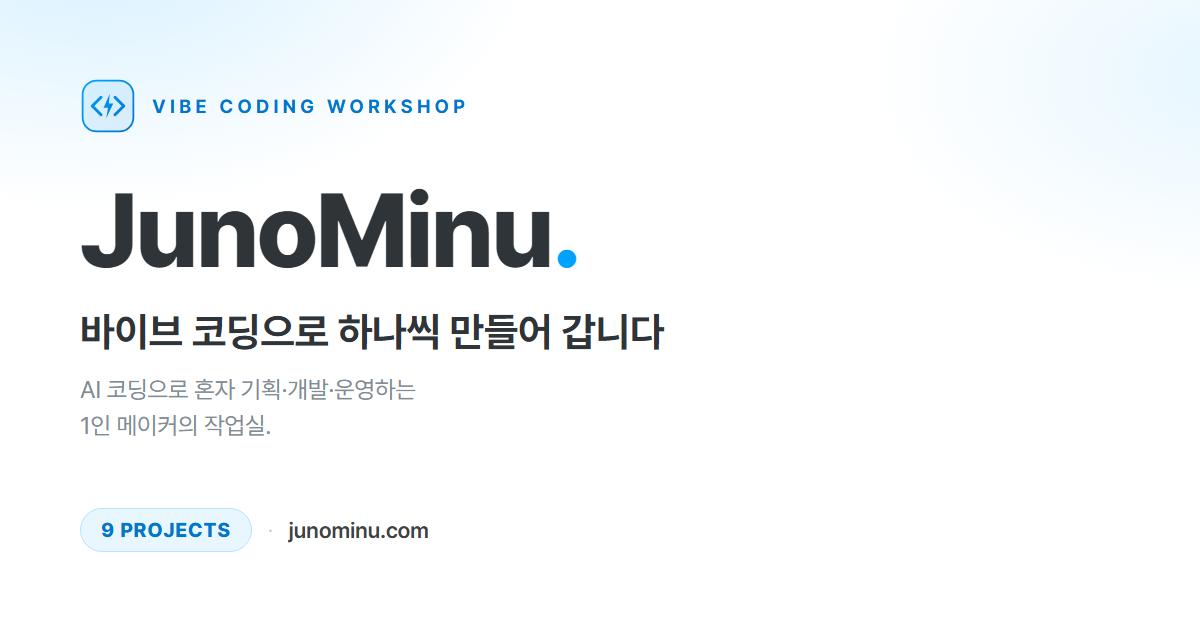
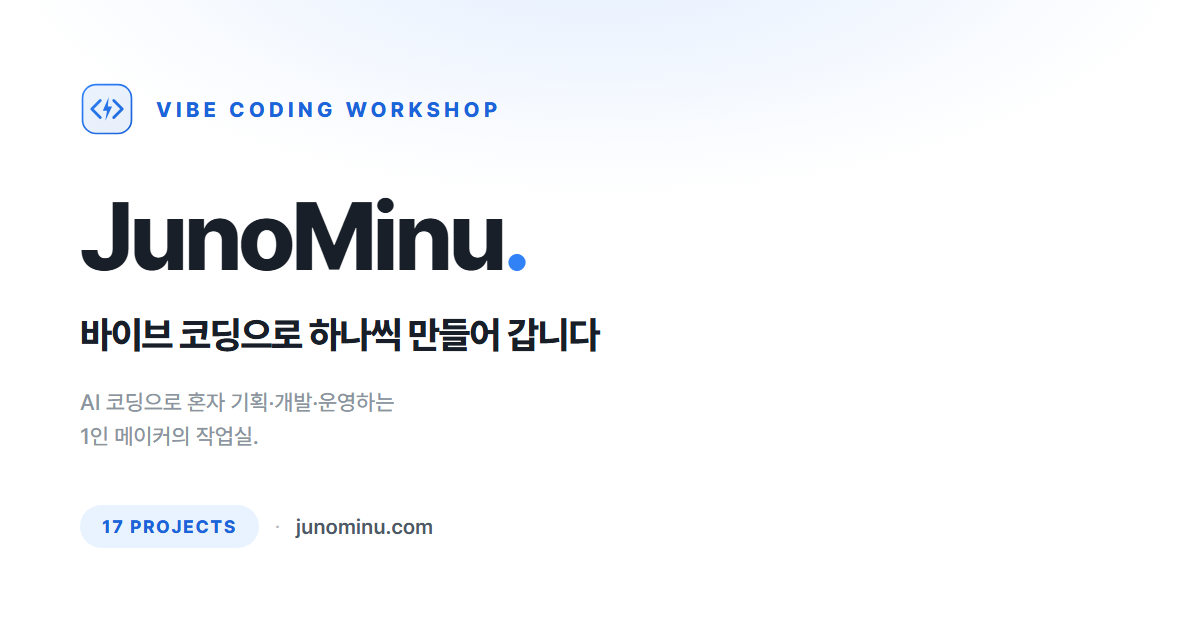
feat: 좌우 여백을 페이지 전체로 통일 + 프로젝트 8개 추가 (9 → 17)
상단 바·히어로만 배경이 화면 끝까지 깔려 있어서 맨 위만 폭이 달랐다.
(실측 1571px: topbar/herowrap = 0→1571, 나머지 = 265→1305)

.topbar / .herowrap 을 .sband 와 같은 2단 구조로 바꿨다.
바깥이 max-width + 좌우 패딩, 안쪽(.topbar__inner / .herowrap > .page)이
흰 카드(테두리·radius·점격자·파란 광). 점 격자 ::before 도 안쪽으로 옮겼다 —
바깥에 두면 좌우 여백까지 점이 번진다.

이제 맨 위부터 풋터까지 전부 265→1305, 가로 스크롤 없음.

프로젝트 추가: 상세페이지 메이커 · 센스트랙 · 아이다이어리 ·
브랜드커넥트 도우미 · 서이추 도우미 · 무궁화 꽃이 피었습니다 ·
슬라이딩 퍼즐 · 오델로. 카테고리 5개가 전부 채워졌다.
8개 모두 detail 이 없어 카드만 나온다(프리렌더는 그대로 9개).

og.png 를 17 PROJECTS 로 재생성.

diff --git a/src/App.css b/src/App.css
@@ -7,7 +7,8 @@
 
 /* 홈은 히어로 / 풀블리드 / 나머지 세 덩어리로 쪼개져 있다(풀블리드 스크롤바 문제 회피).
    위 조각은 아래 패딩을, 아래 조각은 위 패딩을 뺀다 — 합치면 원래 한 덩어리와 같다. */
-.page--top  { padding-top: clamp(44px, 6vw, 76px); padding-bottom: 0; }
+/* 히어로는 이제 카드라(2026-08-05) 아래 여백도 카드가 갖는다 — .hero 의 margin 은 0. */
+.page--top  { padding-top: clamp(44px, 6vw, 76px); padding-bottom: clamp(36px, 5vw, 56px); }
 .page--rest {
   /* 섹션이 각자 카드(.sband)라 좌우 패딩은 카드가 갖는다. 여기선 폭 제한도 푼다. */
   max-width: none;
@@ -28,16 +29,22 @@
 /* ── 상단 바 ───────────────────────────
    로고와 내비를 히어로 밖으로 뺐다(2026-08-03 2차). 히어로 안에 쌓아두니
    PC 폭에서 요소가 세로로 7단이 되어 양옆이 텅 비고 어색했다.
-   내비가 위로 올라가면 히어로는 배지·이름·한 줄·CTA 네 단으로 끝난다. */
+   내비가 위로 올라가면 히어로는 배지·이름·한 줄·CTA 네 단으로 끝난다.
+
+   🔴 2026-08-05: 상단 바도 카드다. 예전엔 배경이 화면 끝까지 깔렸는데, 아래 섹션은
+   전부 좌우 여백(캔버스)을 두고 있어서 맨 위만 폭이 다르게 보였다(사용자 지적).
+   바깥(.topbar)이 폭·좌우 여백을 잡고, 안쪽(.topbar__inner)이 흰 카드다 — .sband 와 같은 구조. */
 .topbar {
-  border-bottom: 1px solid var(--border);
-  background: var(--surface);
+  max-width: var(--maxw);
+  margin: 14px auto 10px;
+  padding: 0 clamp(20px, 5vw, 40px);
 }
 
 .topbar__inner {
-  max-width: var(--maxw);
-  margin: 0 auto;
-  padding: 14px clamp(20px, 5vw, 40px);
+  background: var(--surface);
+  border: 1px solid var(--border);
+  border-radius: var(--radius);
+  padding: 12px clamp(18px, 2.8vw, 30px);
   display: flex;
   align-items: center;
   justify-content: space-between;
@@ -93,7 +100,7 @@
    CTA 하나 · 바로 아래 작업물 스트립. 950개 SaaS 랜딩이 예외 없이 하는 단 하나가
    "히어로 바로 아래 제품 화면"인데 이 사이트엔 첫 화면에 이미지가 없었다. */
 .hero {
-  margin-bottom: 40px;
+  margin-bottom: 0;   /* 아래 여백은 .page--top 의 padding-bottom 이 갖는다 */
   text-align: center;
 }
 
@@ -179,18 +186,30 @@
 
 /* ── 히어로 배경 층 ─────────────────────
    순백 위에 글자만 있으면 밋밋하다는 지적(2026-08-03). 은은한 점 격자 + 파란 광.
-   .page 의 형제라 화면 끝까지 깔린다(음수 마진·50vw 를 안 써서 가로 스크롤이 안 생긴다). */
+
+   🔴 2026-08-05: 히어로도 카드다. 예전엔 이 층이 화면 끝까지 깔렸는데(전면 흰색),
+      아래 섹션은 전부 좌우 여백을 두고 있어서 **맨 위만 좌우가 꽉 찬** 상태였다.
+      바깥(.herowrap)이 폭·좌우 여백만 잡고, 흰 면·점 격자·파란 광은 안쪽 카드가 갖는다. */
 .herowrap {
+  max-width: var(--maxw);
+  margin: 0 auto 18px;
+  padding: 0 clamp(20px, 5vw, 40px);
+}
+
+.herowrap > .page {
   position: relative;
-  overflow: hidden;
-  border-bottom: 1px solid var(--border);
+  z-index: 1;
+  max-width: none;
+  overflow: hidden;              /* 점 격자를 카드 라운드 안으로 자른다 */
+  border: 1px solid var(--border);
+  border-radius: var(--radius);
   background:
     radial-gradient(70% 55% at 50% -10%, rgba(49, 130, 246, 0.10), transparent 70%),
-    var(--surface);   /* 히어로는 카드가 아니라 전면이라 흰색 */
+    var(--surface);
 }
 
 /* 점 격자 — 작업실 바닥 같은 질감. 가장자리로 갈수록 사라진다. */
-.herowrap::before {
+.herowrap > .page::before {
   content: "";
   position: absolute;
   inset: 0;
@@ -199,11 +218,6 @@
   -webkit-mask-image: radial-gradient(75% 65% at 50% 25%, #000, transparent 78%);
   mask-image: radial-gradient(75% 65% at 50% 25%, #000, transparent 78%);
   pointer-events: none;
-}
-
-.herowrap > .page {
-  position: relative;
-  z-index: 1;
 }
 
 /* ── 히어로 무대 (움직이는 창) ────────────

diff --git a/src/projects.js b/src/projects.js
@@ -739,14 +739,76 @@ export const PROJECTS = [
       ],
     },
   },
-  // 예시) 구상 단계 카드 — url 없이 추가:
-  // {
-  //   name: "다음 프로젝트",
-  //   emoji: "✨",
-  //   description: "여기에 한 줄 설명.",
-  //   status: "idea",
-  //   tags: ["아이디어"],
-  // },
+  // ── 2026-08-05 추가 ─────────────────────────────────────────────
+  //  아직 detail(메이킹 스토리)이 없어서 카드만 나온다. url 이 있으면 카드 클릭 시
+  //  바로 그 주소로 가고, 없으면 클릭 안 되는 카드가 된다.
+  //  detail 을 채우면 자동으로 /p/<slug> 상세 페이지가 생긴다(slug 도 같이 넣을 것).
+  {
+    name: "상세페이지 메이커",
+    category: "service",
+    emoji: "🧾",
+    description: "상품번호를 넣거나 사진을 올리면 쇼핑몰 상세페이지를 알아서 만들어 주는 서비스.",
+    url: "https://detai-page-maker.vercel.app",
+    status: "building",
+    tags: ["커머스", "자동 생성", "SaaS"],
+  },
+  {
+    name: "센스트랙",
+    category: "kids",
+    emoji: "👃",
+    description: "발달장애 아이의 후각·청각 반응을 기록하고, 쌓인 기록에서 변화를 찾아 주는 서비스.",
+    url: "https://sensetrack.jjangsaem.com",
+    status: "building",
+    tags: ["감각", "기록", "분석"],
+  },
+  {
+    name: "아이다이어리",
+    category: "kids",
+    emoji: "📔",
+    description: "발달장애 아이를 키우는 부모가 아이의 상태와 반응을 몇 초 만에 남기는 육아 기록장.",
+    status: "building",
+    tags: ["육아", "기록"],
+  },
+  {
+    name: "브랜드커넥트 도우미",
+    category: "product",
+    emoji: "🔗",
+    description: "네이버 브랜드커넥트 제휴 글의 초안을 대신 써 주는 윈도우 프로그램. 쇼핑커넥트까지 마쳤고 캠페인 제휴를 붙이는 중.",
+    status: "building",
+    tags: ["윈도우 프로그램", "크몽 판매", "블로그"],
+  },
+  {
+    name: "서이추 도우미",
+    category: "etc",
+    emoji: "🤝",
+    description: "내 블로그 최근 글에서 관심사를 뽑아, 비슷한 블로그를 찾아 서로이웃을 신청해 주는 개인용 프로그램.",
+    status: "live",
+    tags: ["블로그", "개인용"],
+  },
+  {
+    name: "무궁화 꽃이 피었습니다",
+    category: "lab",
+    emoji: "🌺",
+    description: "영희가 뒤돌아보면 멈춰야 하는 웹 게임. 시간 안에 결승선까지 — 생각보다 어렵습니다.",
+    status: "live",
+    tags: ["게임", "3D"],
+  },
+  {
+    name: "슬라이딩 퍼즐",
+    category: "lab",
+    emoji: "🧩",
+    description: "그림이 매번 새로 만들어지는 조각 맞추기 게임. 같은 판이 두 번 나오지 않습니다.",
+    status: "live",
+    tags: ["게임", "퍼즐"],
+  },
+  {
+    name: "오델로",
+    category: "lab",
+    emoji: "⚫",
+    description: "흑백 돌을 뒤집는 오델로 한 판. 규칙은 단순한데 꽤 오래 붙잡게 됩니다.",
+    status: "live",
+    tags: ["게임", "보드게임"],
+  },
 ];
 
 // 상태 표기 (홈 카드 · 상세 페이지 공용)

diff --git a/WORKLOG.md b/WORKLOG.md
@@ -6,12 +6,14 @@
 
 ---
 
-## ▶ 지금 할 차례 (2026-08-03 기준)
+## ▶ 지금 할 차례 (2026-08-05 기준)
 
 > **"이제 뭐 해야 해?" → ① 아래 「답을 기다리는 3건」을 먼저 그대로 보여준다 ② 그다음 작업 순서를 안내한다.**
 >
 > 사이트 디자인은 전면 개편해서 **다 배포됐다**(팔로워 68, 조회 2만).
-> 작업 순서: **모바일 실기기 확인 → 히어로 문구 감수 → 나머지 프로젝트 추가 → 코칭 사례 시리즈 3편 → 블로그.**
+> 작업 순서: **모바일 실기기 확인 → 히어로 문구 감수 → ~~나머지 프로젝트 추가~~(✅ 08-05 완료, 17개) → 코칭 사례 시리즈 3편 → 블로그.**
+>
+> 🆕 **08-05 에 남긴 미결 2건** — 아래 「④ 게임 3종 배포 여부」·「⑤ 서이추 도우미 공개 노출」.
 
 ### 🙋 먼저 — 사용자 답을 기다리는 3건 (2026-08-03 세션 끝에 남긴 것)
 
@@ -48,13 +50,40 @@ CDP `Emulation.setDeviceMetricsOverride` 를 쓰거나 **실제 폰으로** 볼 
 실제로 AI에게 시켰던 말과 다르면 고쳐야 한다. `src/projects.js` 의 `heroLines` 에 다 모여 있다.
 ✅ 완성 줄은 손대지 말 것 — `slug` 로 `PROJECTS` 에서 이름·상태를 가져온다(`DONE_PHRASE`).
 
-### ③ 나머지 프로젝트를 `projects.js` 에 추가 (카테고리가 비어 보인다)
-지금 **9개뿐**이라 카테고리가 「서비스 1 · 판매 제품 1 · 아이를 위한 도구 3」으로 허전하다.
-부모 폴더에 실제로는 훨씬 많다(`D:\Claude-prj` 44개). 추가할 때:
-- `category`(service/product/kids/lab/etc) + 필요하면 `featured`(3~4개 상한) — 자세한 건 `CLAUDE.md`
+### ✅ ③ 나머지 프로젝트 추가 — **2026-08-05 완료 (9 → 17개)**
+추가: 상세페이지 메이커 · 센스트랙 · 아이다이어리 · 브랜드커넥트 도우미 · 서이추 도우미 ·
+무궁화 꽃이 피었습니다 · 슬라이딩 퍼즐 · 오델로. 카테고리가 5개 전부 채워졌다.
+- ⚠ 8개 모두 **`detail` 이 없다** → 카드만 나오고 `/p/<slug>` 상세는 없다. 프리렌더도 그대로 9개.
+  메이킹 스토리를 쓸 때 `slug` + `detail` 을 같이 넣을 것(그 순간 `sitemap.xml` 도 갱신).
 - ⚠ **`heroLines` 는 자동 연동이 안 된다.** 히어로 창에 넣고 싶으면 따로 추가.
+- `public/og.png` 를 **`17 PROJECTS`** 로 다시 떴다(카드 HTML은 스크래치패드, 커밋 안 함).
 
-### 🎨 이번 세션에 끝낸 것 — 디자인 전면 개편 (2026-08-03)
+### 🙋 ④ 게임 3종 — **배포할까요? (답 대기)**
+무궁화 · 슬라이딩 퍼즐 · 오델로는 완성됐는데 **공개 주소가 없다.** 지금은 `status: "live"` 인데
+`url` 이 없어서 **카드를 눌러도 아무 일이 안 난다.** 셋 중 하나를 고를 것:
+- ㉮ Vercel 에 올려 `url` 을 붙인다 ← 포트폴리오에선 이게 제일 낫다(눌러서 놀 수 있는 카드)
+- ㉯ 링크 없이 그대로 둔다 (지금 상태)
+- ㉰ 목록에서 뺀다
+> ⚠ 슬라이딩 퍼즐은 **Gemini 키가 번들에 인라인**된다(`Sliding-Puzzle/CLAUDE.md` 경고). 올리려면 키를 먼저 빼야 한다.
+
+### 🙋 ⑤ 서이추 도우미 — **공개 포트폴리오에 그대로 둘까요? (답 대기)**
+`naver-blog-seoichoo/README.md` 에 *"네이버는 자동화 도구로 로그인/이웃추가하는 행위를 약관으로 금지"* 라고
+본인이 적어 두셨다. 개인용이라 판매·배포는 아니지만, **junominu.com 은 공개 포트폴리오**라 카드로 걸어 두면
+그 도구를 홍보하는 모양이 된다. 그대로 둘지 / 문구를 순화할지 / 뺄지 판단이 필요하다.
+
+### 🎨 2026-08-05 — 좌우 여백을 페이지 전체로 통일 + 프로젝트 8개 추가
+**증상**: 스크롤하면 맨 위(상단 바·히어로)만 배경이 화면 끝까지 깔리고, 그 아래 섹션은 전부
+좌우 여백이 있었다 → *"좌우측 끝은 여백으로 두기로 했는데 이 부분은 제대로 안되어 있네"*(사용자).
+**실측**(1571px 뷰포트): `topbar`·`herowrap` = `0→1571`, 나머지(`sband`·`cta`) = `265→1305`.
+**조치**: `.topbar` / `.herowrap` 을 `.sband` 와 같은 2단 구조로 바꿨다 —
+바깥이 `max-width: var(--maxw)` + 좌우 패딩, 안쪽(`.topbar__inner` / `.herowrap > .page`)이 흰 카드
+(테두리 · `--radius` · 점격자 · 파란 광). 점 격자 `::before` 도 안쪽으로 옮겼다(안 옮기면 여백까지 점이 번진다).
+- 결과: **맨 위부터 풋터까지 전부 `265→1305`**, 가로 스크롤 없음(`scrollWidth == clientWidth`).
+- `.page--top` 이 아래 여백을 갖고 `.hero { margin-bottom: 0 }` — 카드가 여백을 갖는 구조라 그렇다.
+- ⚠ CSS 주석을 고칠 때 **기존 블록의 `*/` 안쪽에 새 줄을 넣지 말 것.** 한 번 그래서 `.topbar` 규칙이
+  통째로 무시됐다(상단 바만 그대로 풀블리드로 남아 있었다).
+
+### 🎨 이전 세션 — 디자인 전면 개편 (2026-08-03)
 `DESIGN.md` 를 **오늘의집 → 토스**로 교체하고 구조까지 갈아엎었다. **상세는 `CLAUDE.md` §디자인.**
 핵심만: 섹션 10→6 · 대표작 2열 + 카테고리 컴팩트 · 내비를 상단 바로 · 그림자 전부 제거 ·
 **옅은 캔버스 위 흰 테두리 카드**(네이버 홈 방식) · 색은 프롬프트 밴드(옅은 파랑)와 CTA(먹색) 두 곳만.
